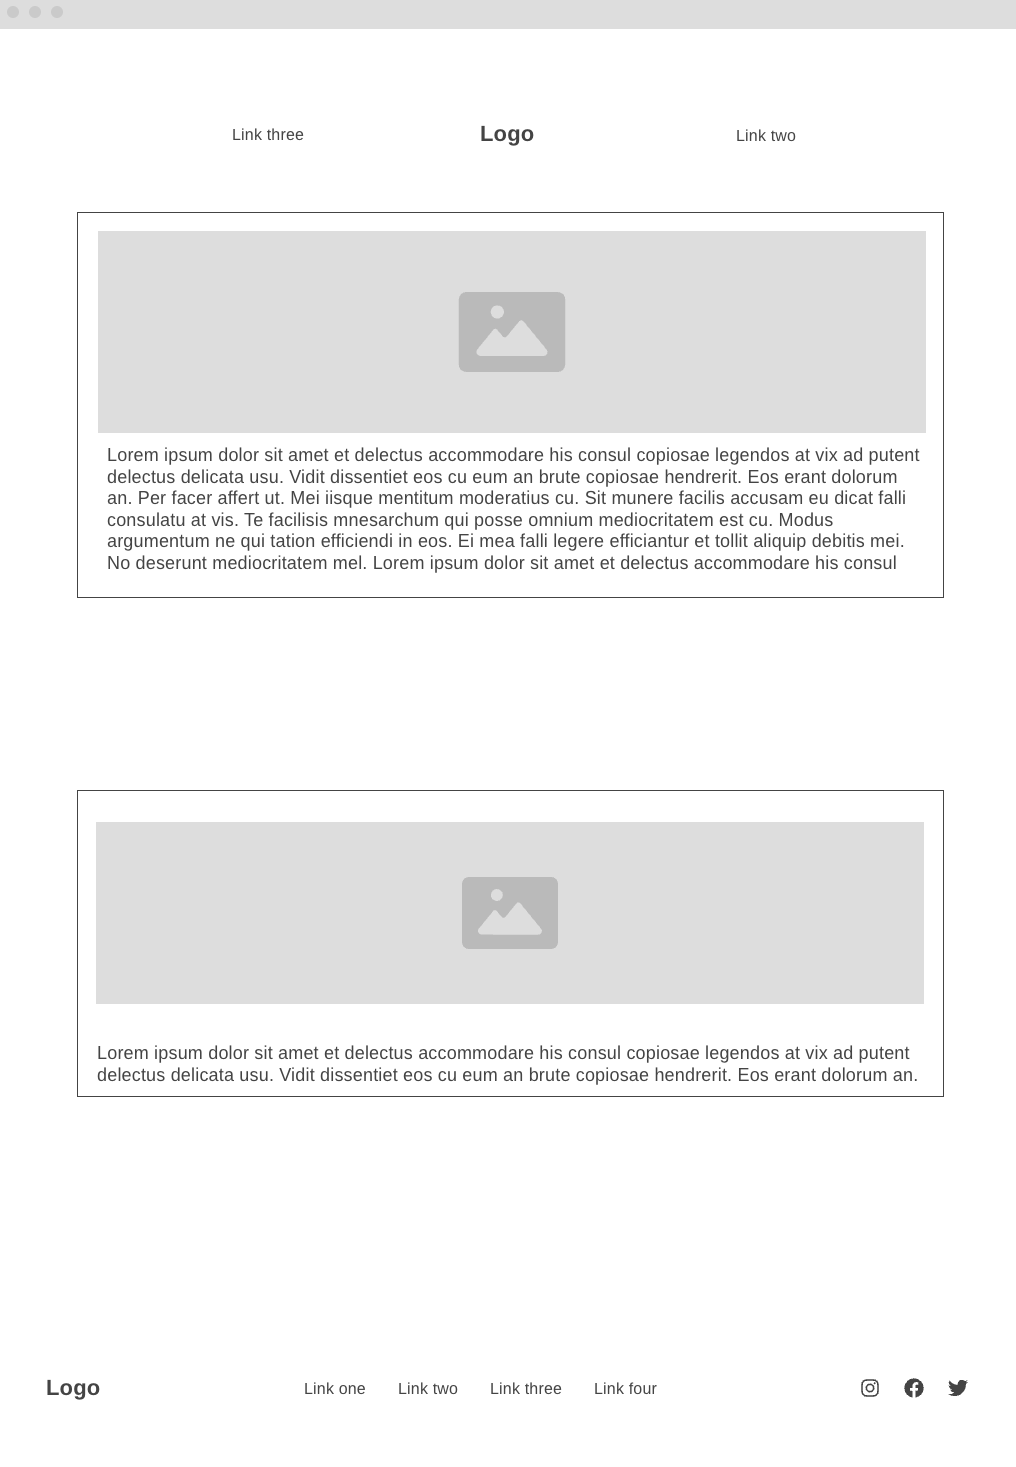
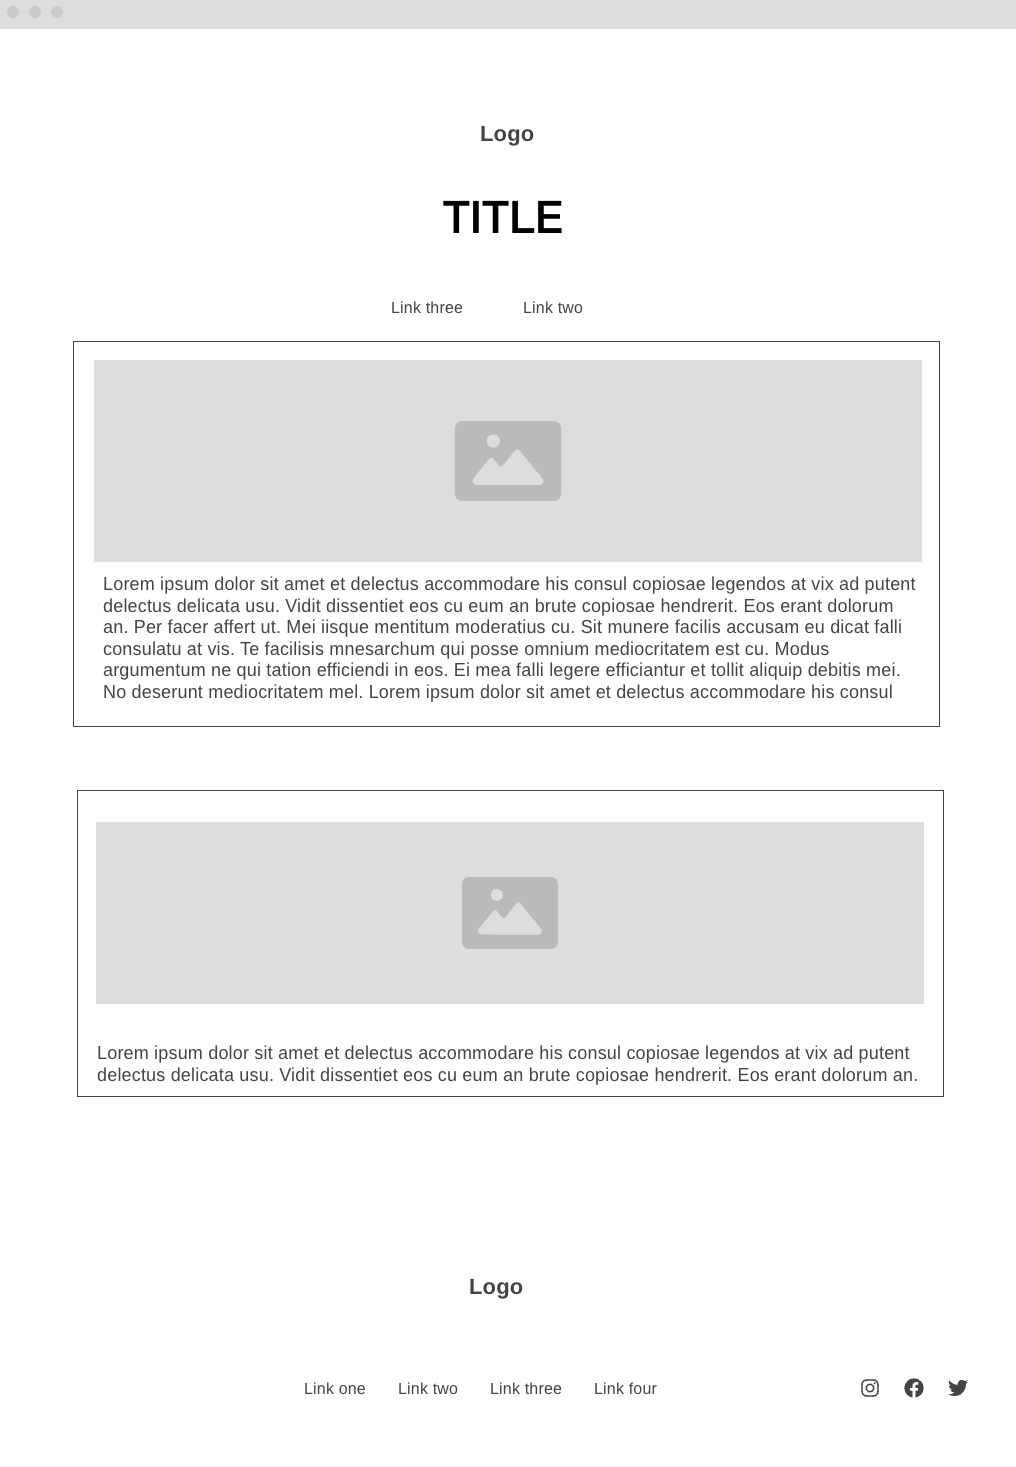
polishing self-care page css

Changed region(s): [[0.0915, 0.1227, 0.9154, 0.4908], [0.4577, 0.8589, 0.5187, 0.8896], [0.061, 0.9202, 0.0915, 0.9509]]

diff --git a/selfcare/index.html b/selfcare/index.html
@@ -10,7 +10,7 @@
 </head>
 
 
-<body>
+
    
     <main>
 <style>
@@ -21,8 +21,9 @@
   box-sizing: border-box;
 }
 
+
 body {
-  font-family: "Emilys Candy", "Tinos";
+  font-family: "Tinos";
   line-height: 1.6;
   background-color: #f4f4f4;
 }
@@ -44,9 +45,10 @@ header {
   box-shadow: 0 4px 8px rgba(236, 183, 96, 0.1);
 }
 
-header h1 {
+header h3 {
   font-size: 5rem;
-  color: #472d00;
+  font-family: "Emilys Candy";
+  color: #8bba8d;
   font-weight: bold; 
   margin-bottom: 20px;
 }
